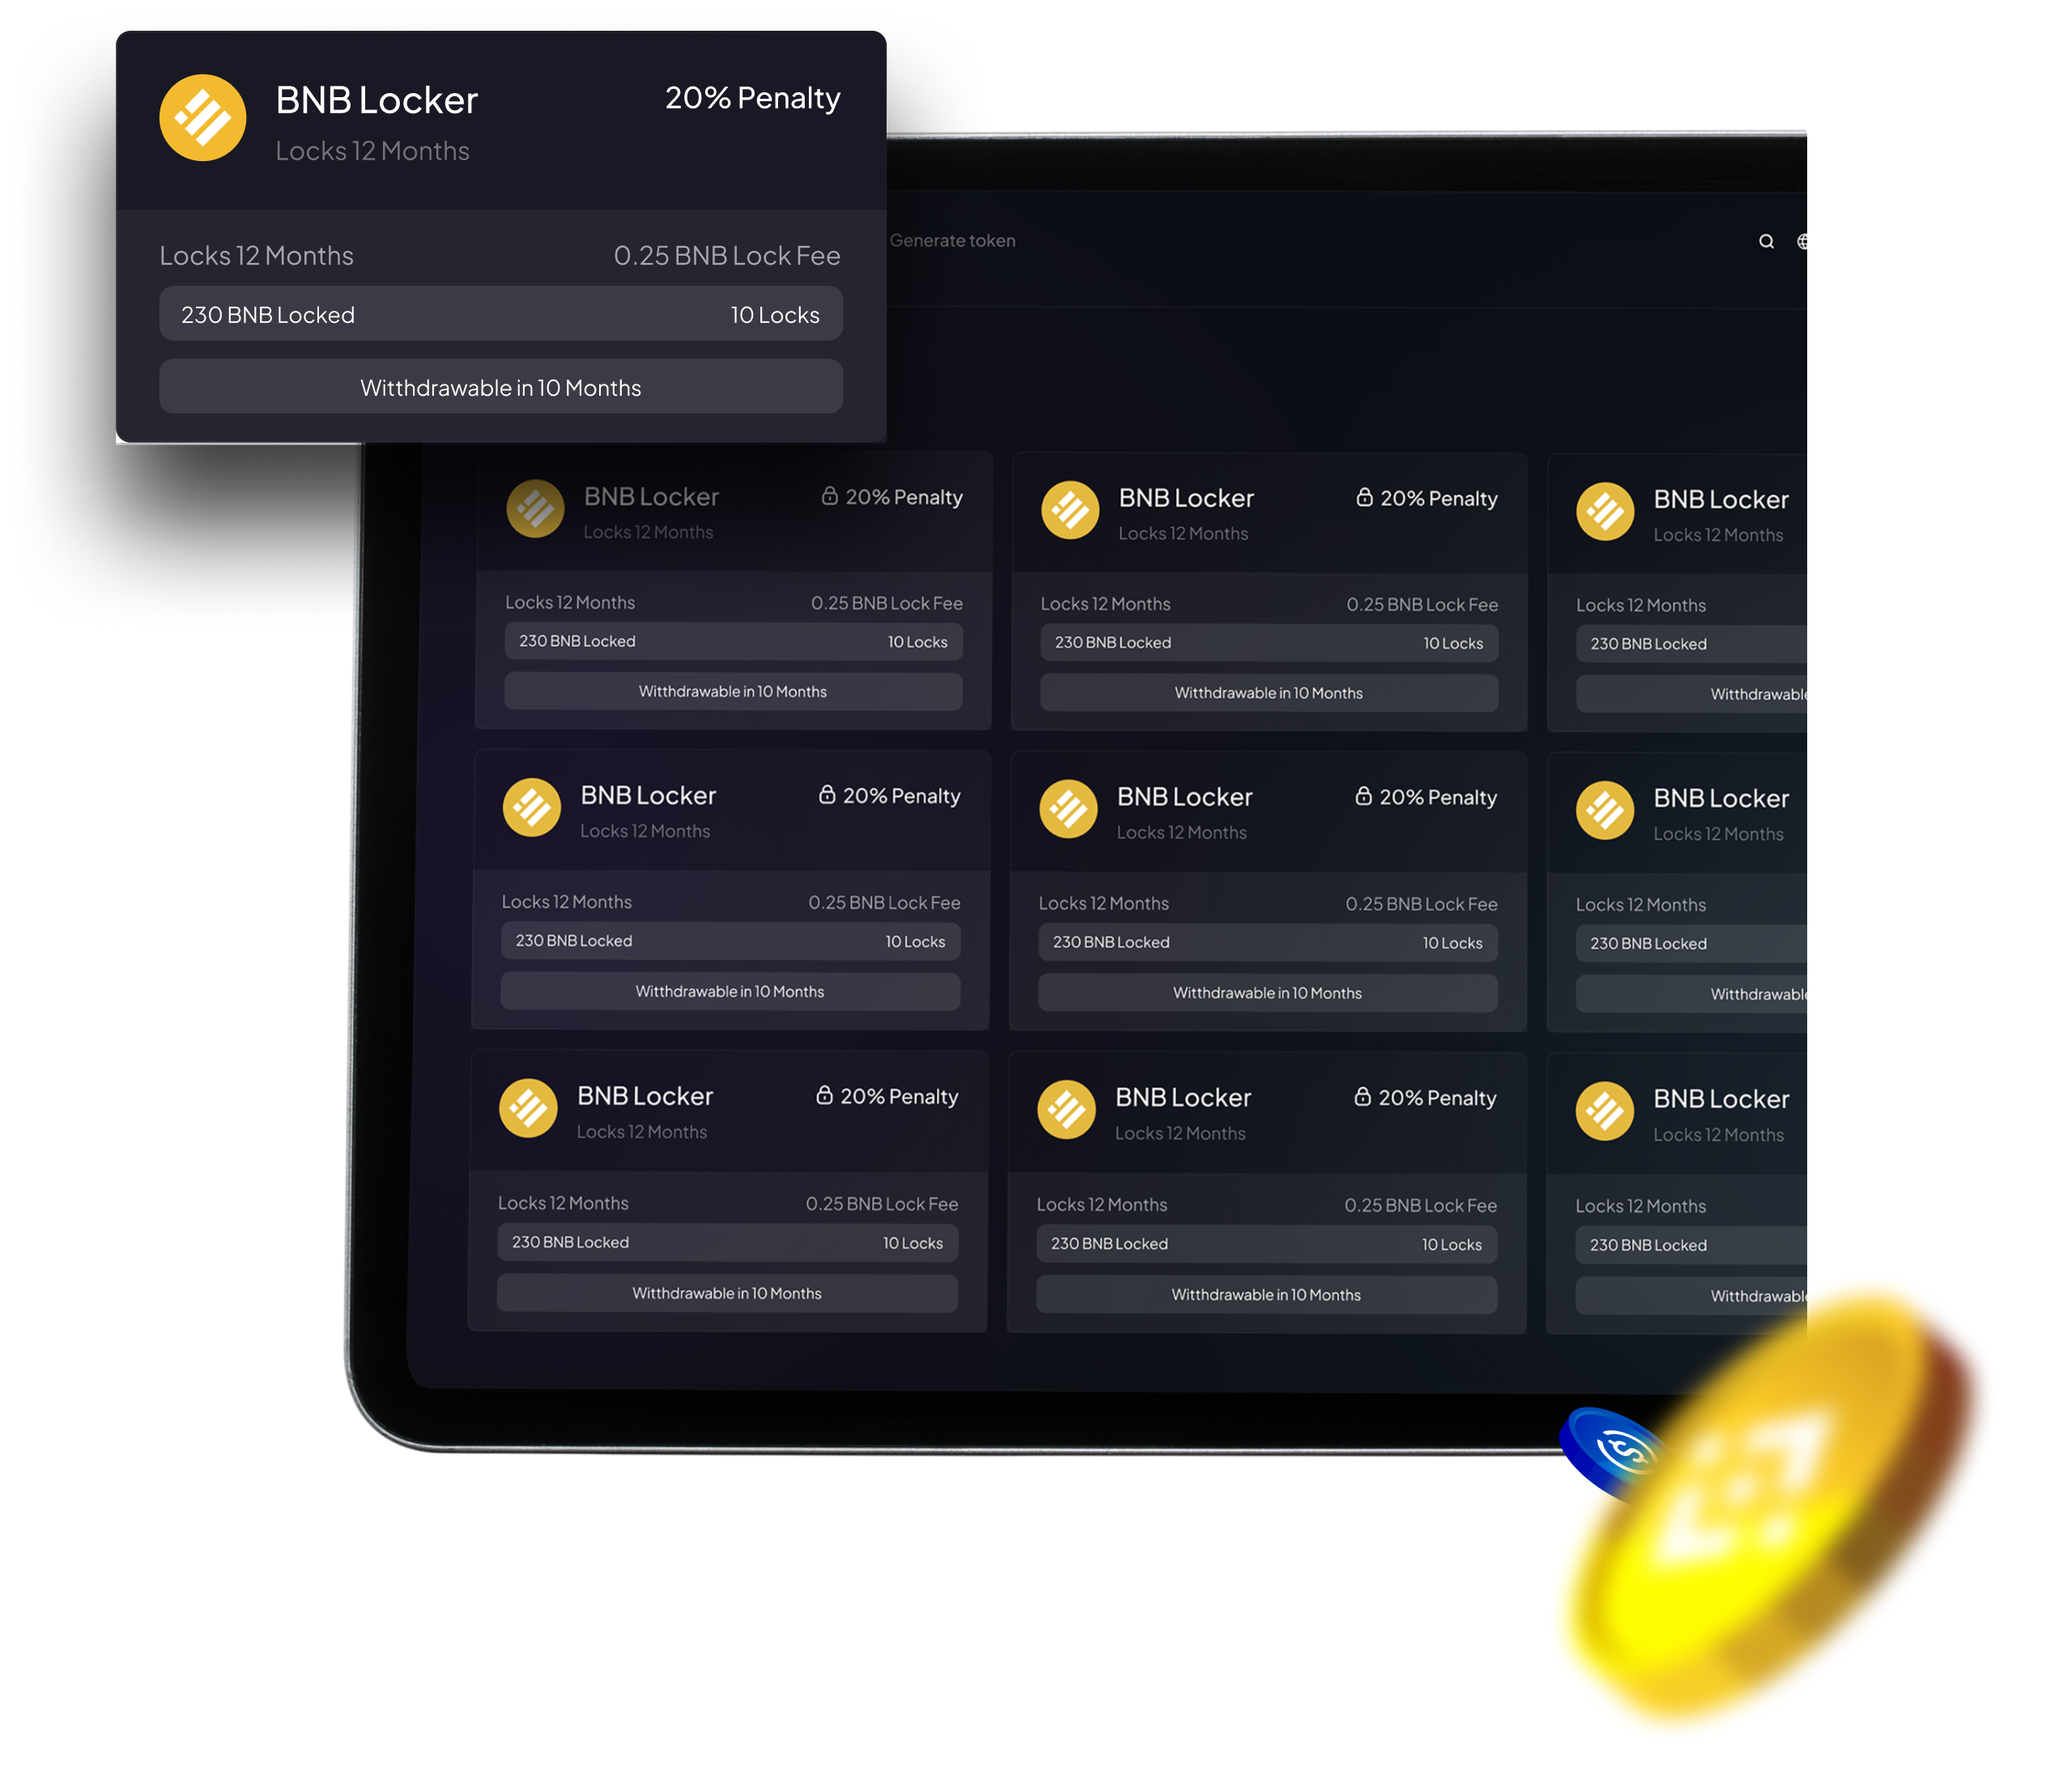
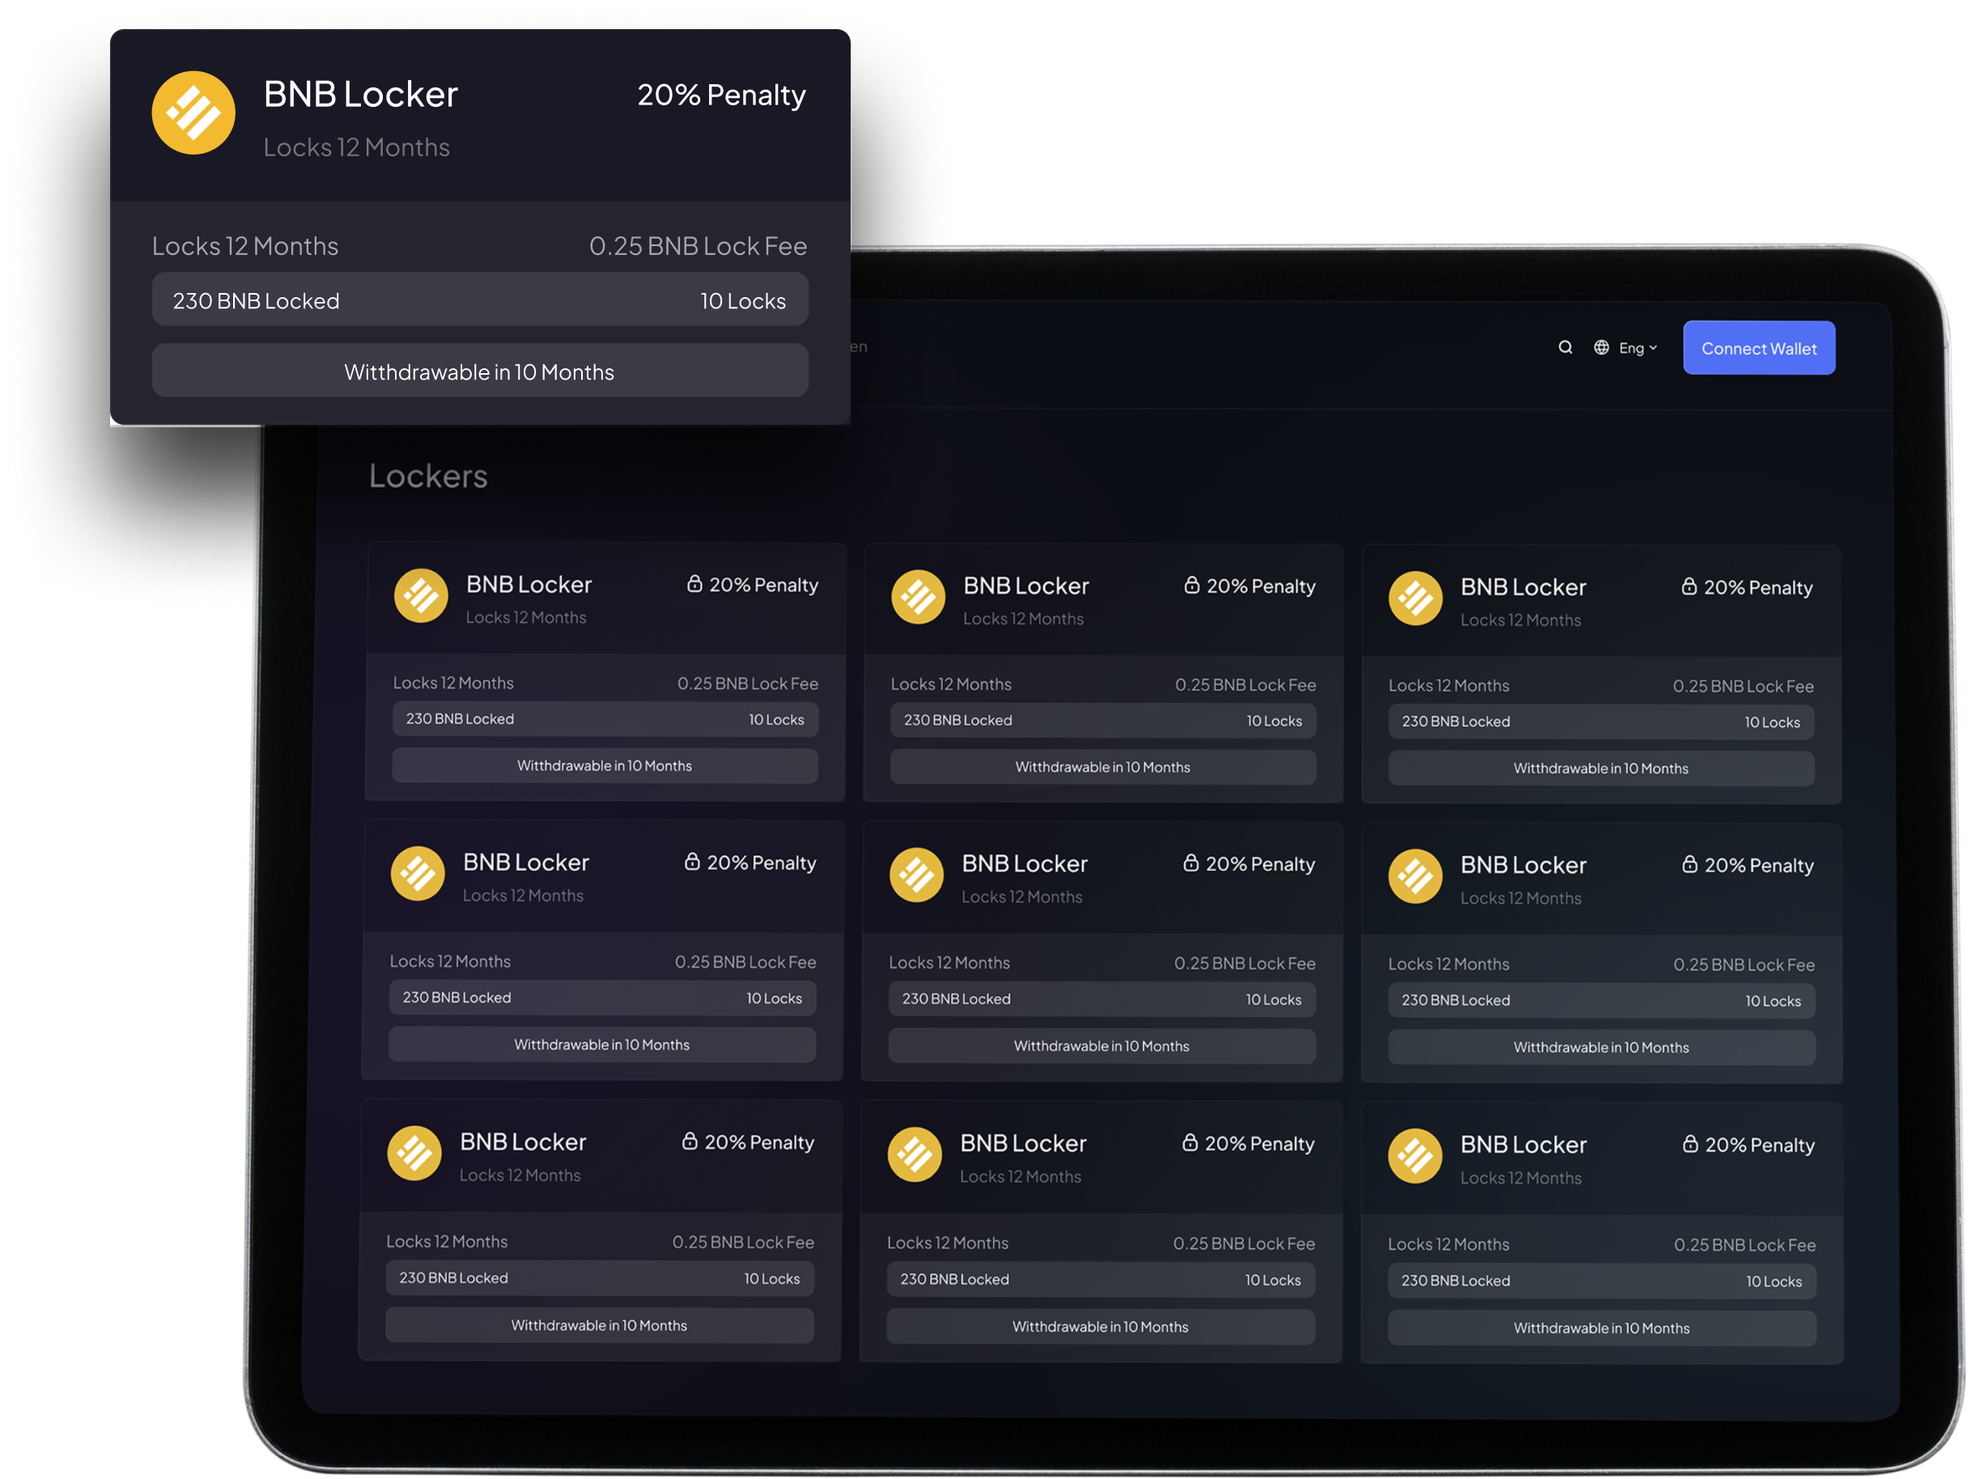
fix: changes in images

diff --git a/src/components/home/Hero.tsx b/src/components/home/Hero.tsx
@@ -9,7 +9,7 @@ const Hero = () => {
       className={`flex flex-col min-h-screen w-full small:mb-32 pt-28 small:pt-32 screen-path gap-10`}>
       <div className='w-full justify-between gap-12 small:gap-0 flex flex-col small:flex-row small:pl-28'>
         {' '}
-        <div className='flex flex-col gap-[40px] items-start pt-10 small:pr-4 small:px-0 mt-[20px]'>
+        <div className='flex flex-col gap-[40px] items-start pt-10 small:pr-4 small:px-0 mt-[20px] px-4'>
           <div className='flex flex-col gap-6'>
             <h1 className='text-[44px] small:text-[56px] font-semibold leading-[56px] font-segoe'>
               Next Generation Lockers for Web3
@@ -29,7 +29,7 @@ const Hero = () => {
           </Link>
         </div>
         <img
-          src='/desktop.png'
+          src='/desktop-new.png'
           alt='desktop'
           className='small:mx-none mx-auto block max-w-full small:max-w-[63%]'
         />

diff --git a/src/components/home/Functionality.tsx b/src/components/home/Functionality.tsx
@@ -51,19 +51,23 @@ const Functionality = () => {
         </div>
       </div>
 
-      <img src='/locker.png' alt='desktop' className='z-20 small:pt-10 hidden small:block' />
-
       <img
+        src='/locker-new.png'
+        alt='desktop'
+        className='z-20 small:pt-10 hidden small:block w-[50%]'
+      />
+
+      {/* <img
         src='/light-new.png'
         alt='light'
         className='absolute right-0 -top-20 hidden small:block w-[320px] small:w-[930px]'
-      />
+      /> */}
       {/* Responsive Light */}
-      <img
+      {/* <img
         src='/light-responsive-new.png'
         alt='light responsive'
         className='w-full block small:hidden'
-      />
+      /> */}
     </div>
   );
 };

diff --git a/src/components/home/Lockpay.tsx b/src/components/home/Lockpay.tsx
@@ -6,7 +6,7 @@ const Lockpay = () => {
   return (
     <main className='w-full justify-between small:items-center flex flex-col small:flex-row small:pb-10 relative'>
       <div className='relative hidden small:flex'>
-        <img src='/mobile-new.png' alt='desktop' className='z-0 w-[1012px]' />
+        <img src='/mobile-new2.png' alt='desktop' className='z-0 w-[1012px]' />
         <img
           src='/chart-left-new.png'
           alt='desktop'
